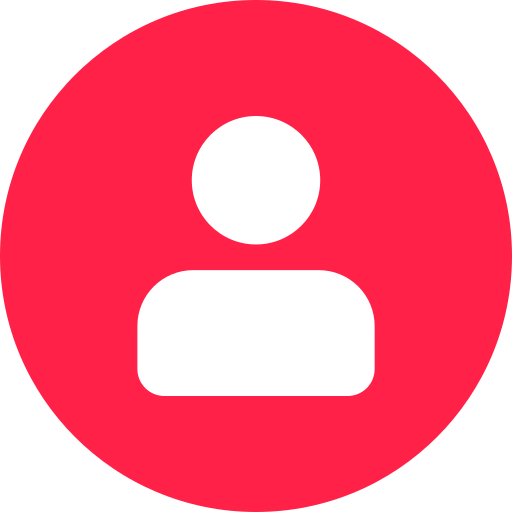
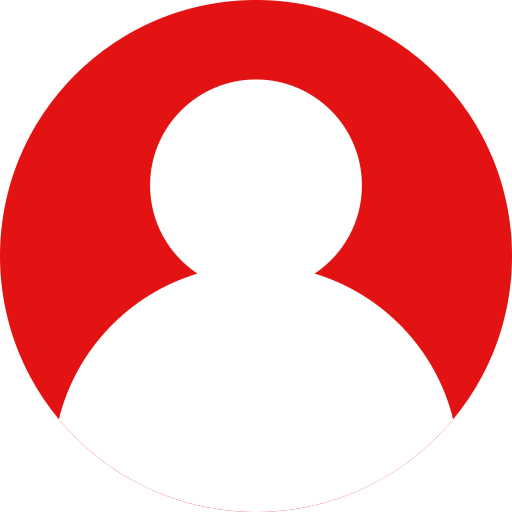
Homepagina verbeterd

diff --git a/kirhanhuyghe-frontend/src/components/Navbar.jsx b/kirhanhuyghe-frontend/src/components/Navbar.jsx
@@ -1,5 +1,5 @@
 import { useState } from "react";
-import KLJIcon from "../assets/KLJIcon.jpeg";
+import KLJIcon from "../assets/KLJIcon.png";
 import logout from "../assets/logout.png";
 import user from "../assets/user.png";
 
@@ -13,10 +13,10 @@ export default function Navbar({ username = "Aykon" }) {
   };
 
   return (
-    <nav className="fixed top-0 left-0 right-0 h-20 bg-transparent shadow z-50 flex items-center px-6">
+    <nav className="fixed top-0 left-0 right-0 h-20 bg-blue-950 shadow z-50 flex items-center px-6">
       {/* Links uitgelijnd */}
       <div className="flex items-center gap-6">
-        <img src={KLJIcon} alt="KLJIcon" className="h-12 w-auto" />
+        <img src={KLJIcon} alt="KLJIcon" className="h-18 w-auto" />
       </div>
 
       {/* Rechts uitgelijnd */}

diff --git a/kirhanhuyghe-frontend/src/components/WelcomeMessage.jsx b/kirhanhuyghe-frontend/src/components/WelcomeMessage.jsx
@@ -1,6 +1,6 @@
 export default function WelcomeMessage({ username }) {
   return (
-    <h1 className="text-3xl font-semibold text-center mb-6">
+    <h1 className="text-3xl text-black font-semibold text-center mb-6">
       Welkom, {username}
     </h1>
   );